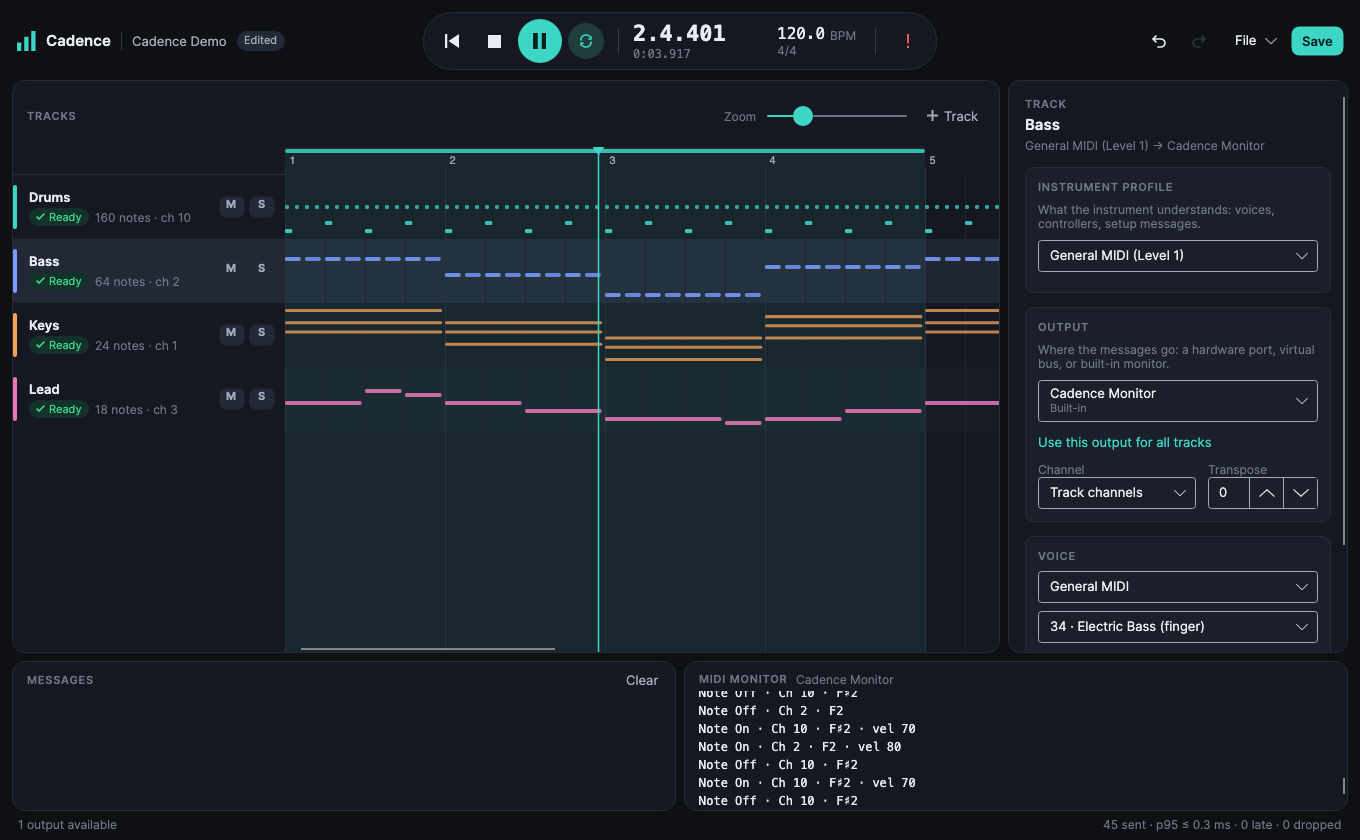
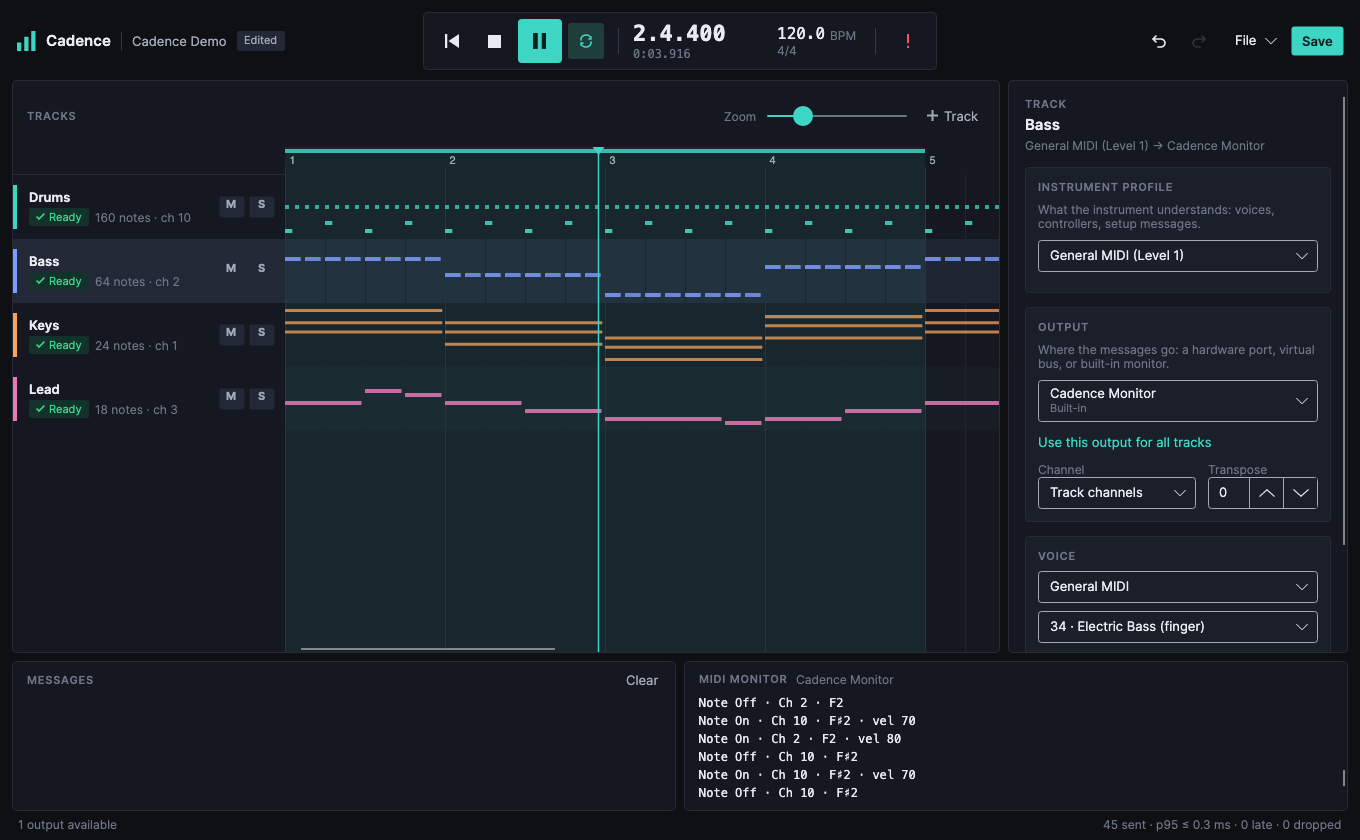
Tighten corner radii for a crisper interface
Panels 12 -> 4, controls 8 -> 3 (including Fluent's ControlCornerRadius
and OverlayCornerRadius so combo boxes, text fields, and flyouts match),
transport bar and buttons from pills/circles to squared shapes, chips
and mute/solo toggles to 2, and sharper timeline notes and loop bar.

diff --git a/src/Cadence.Desktop/Controls/TimelineView.cs b/src/Cadence.Desktop/Controls/TimelineView.cs
@@ -127,7 +127,7 @@ public sealed class TimelineView : Control
             var x0 = TickToX(loop.Start.Value);
             var x1 = TickToX(loop.End.Value);
             context.FillRectangle(LoopFill, new Rect(x0, 0, x1 - x0, Bounds.Height));
-            context.FillRectangle(LoopBar, new Rect(x0, 2, x1 - x0, 4), 2);
+            context.FillRectangle(LoopBar, new Rect(x0, 2, x1 - x0, 4));
         }
 
         DrawGrid(context, sequence, firstTick, lastTick);
@@ -230,7 +230,7 @@ public sealed class TimelineView : Control
             var w = Math.Max(2, TickToX(note.EndPosition.Value) - x - 1);
             var y = top + ((high - note.Note.Value) * (height - noteHeight) / Math.Max(1, span - 1));
             var opacity = (0.45 + (0.55 * note.Velocity.Value / 127.0)) * faded;
-            context.FillRectangle(new SolidColorBrush(color, opacity), new Rect(x, y, w, noteHeight), 1.5f);
+            context.FillRectangle(new SolidColorBrush(color, opacity), new Rect(x, y, w, noteHeight), 0.5f);
         }
     }
 }
